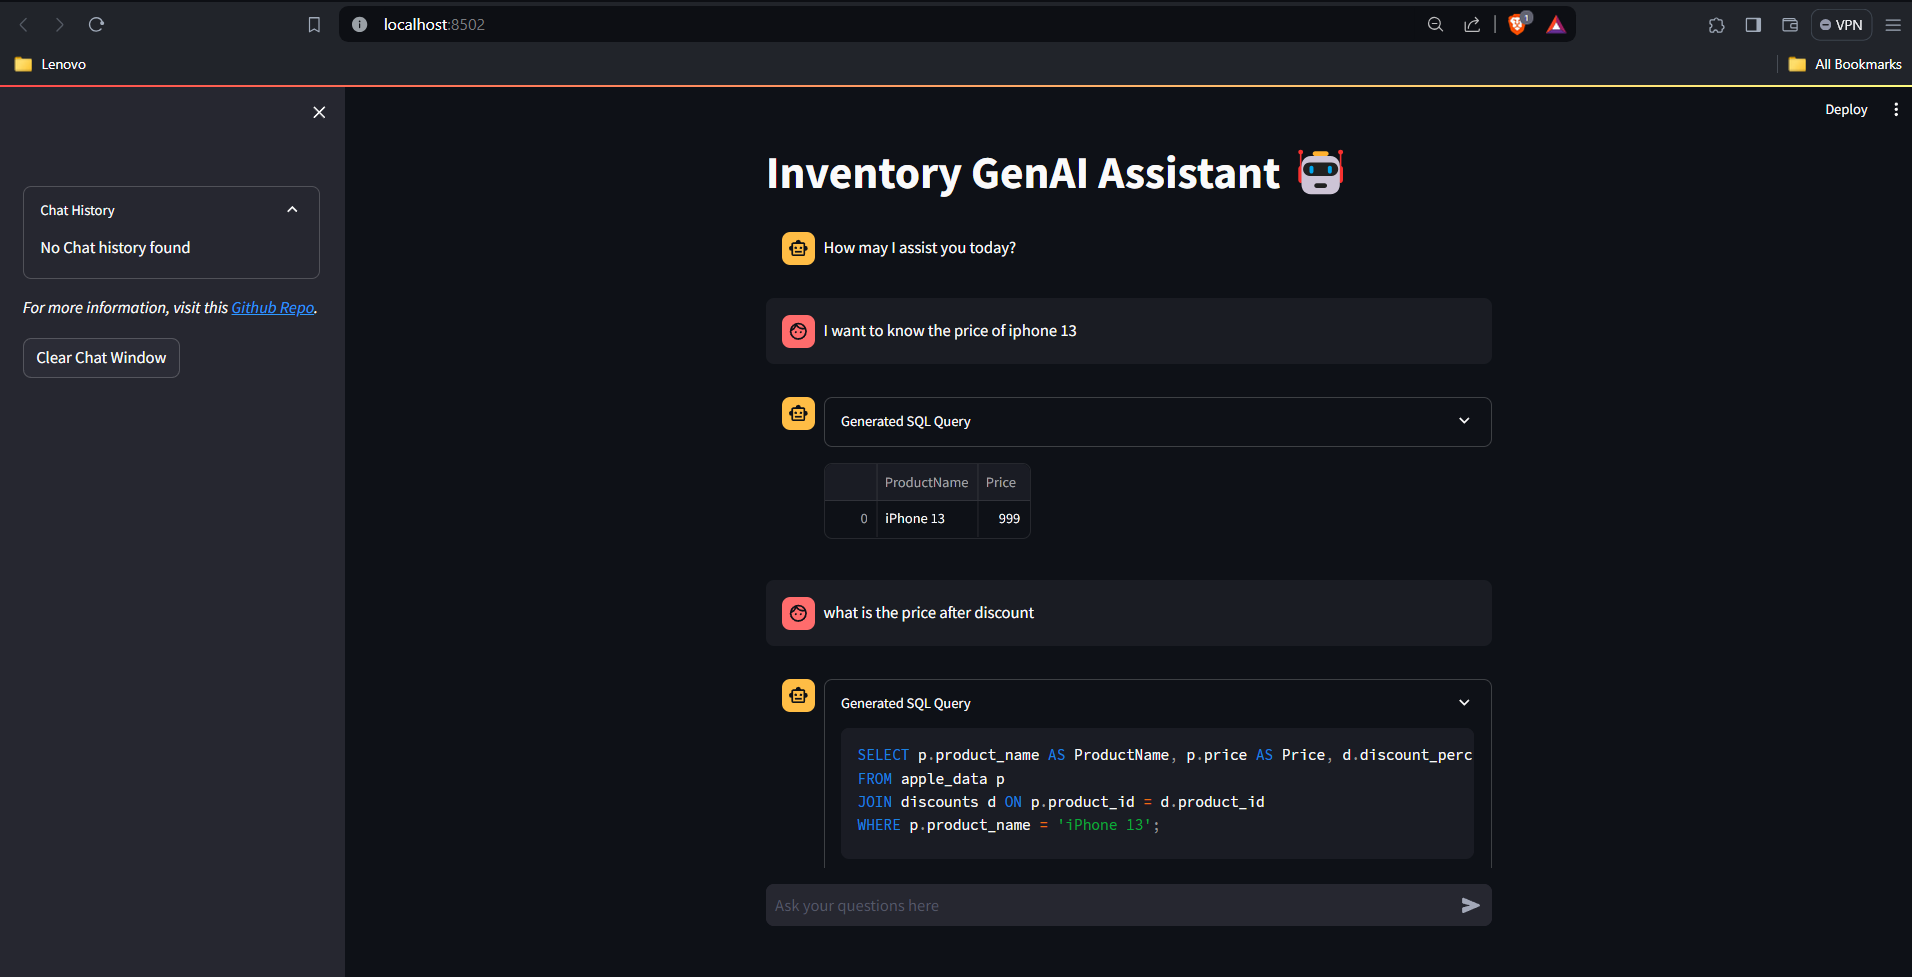
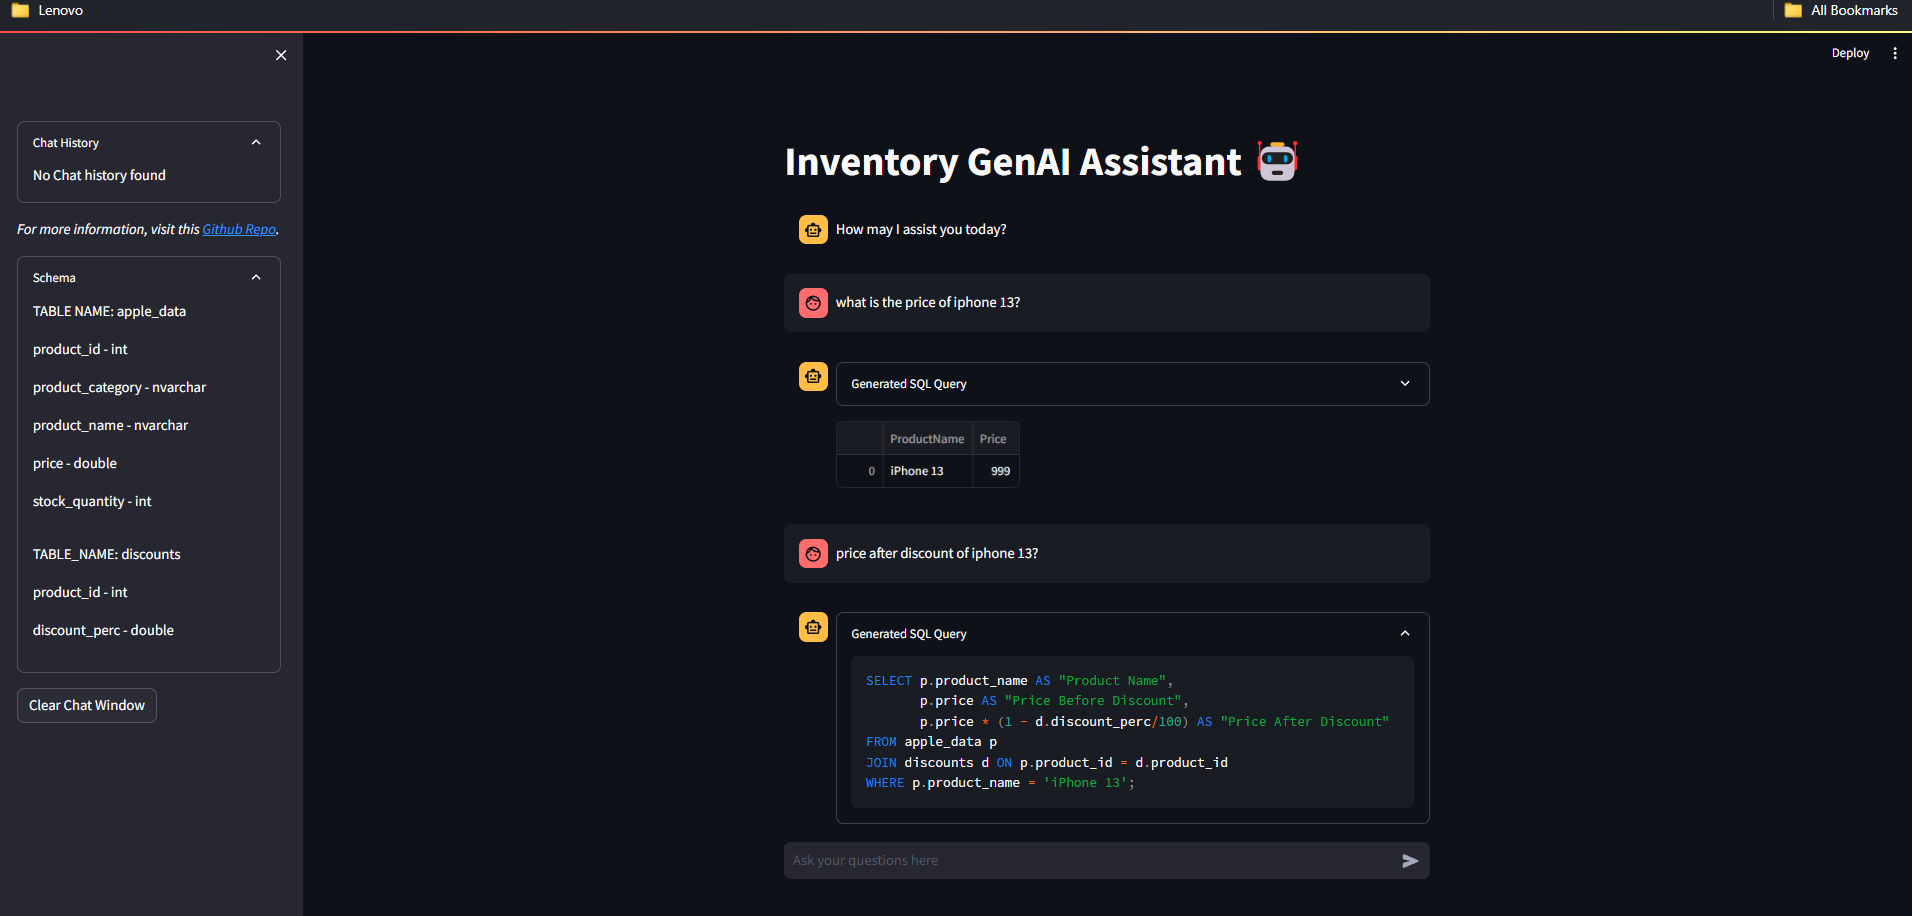
app.py updated

diff --git a/app.py b/app.py
@@ -25,7 +25,10 @@ def clear_chat_history():
     global history_df
     history_df = pd.DataFrame(columns = ["HumanMessage", "AIMessage"])
 
-
+schema = """TABLE NAME: apple_data \n product_id - int\n product_category - nvarchar \n product_name - nvarchar \n price - double \n stock_quantity - int\n
+            TABLE_NAME: discounts \n product_id - int \n discount_perc - double
+            """
+schema_lis = schema.split("\n")
 
 with st.sidebar:
     expander = st.expander("Chat History")
@@ -36,7 +39,9 @@ with st.sidebar:
     *For more information, visit this [Github Repo](https://github.com/singh97kishan/Apple-SCM-LLM).*
     """
     )
-
+    schema_expander = st.expander("Schema")
+    for i in schema_lis:
+        schema_expander.write(i)
     if st.button('Clear Chat Window'):
        clear_chat_history()
        expander.write(chat_tokeep)
